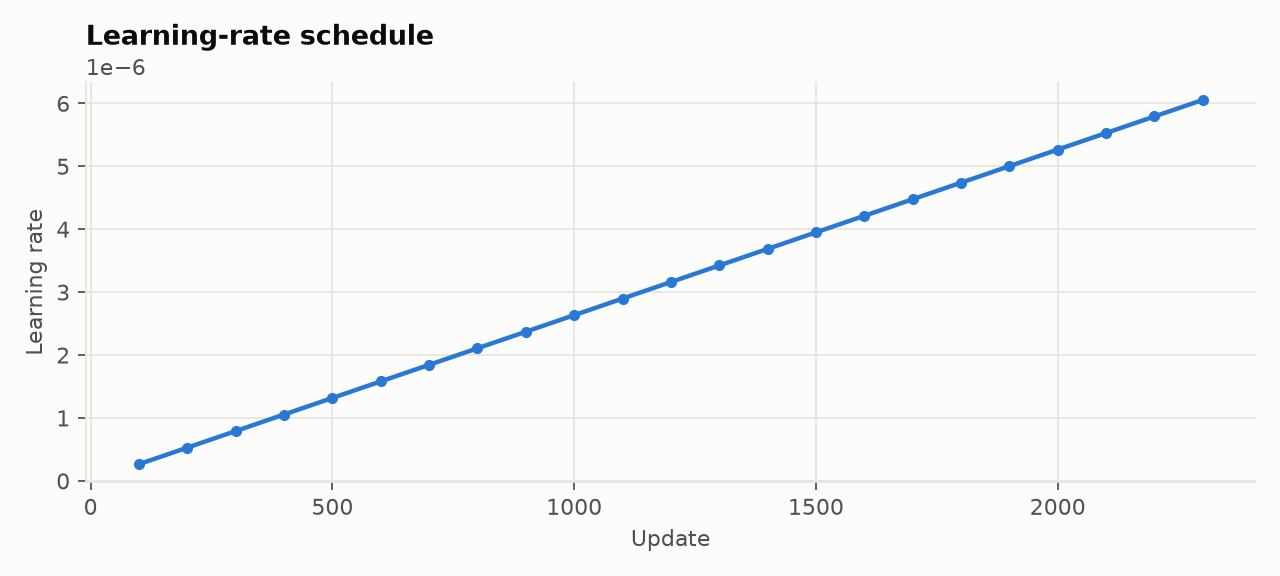
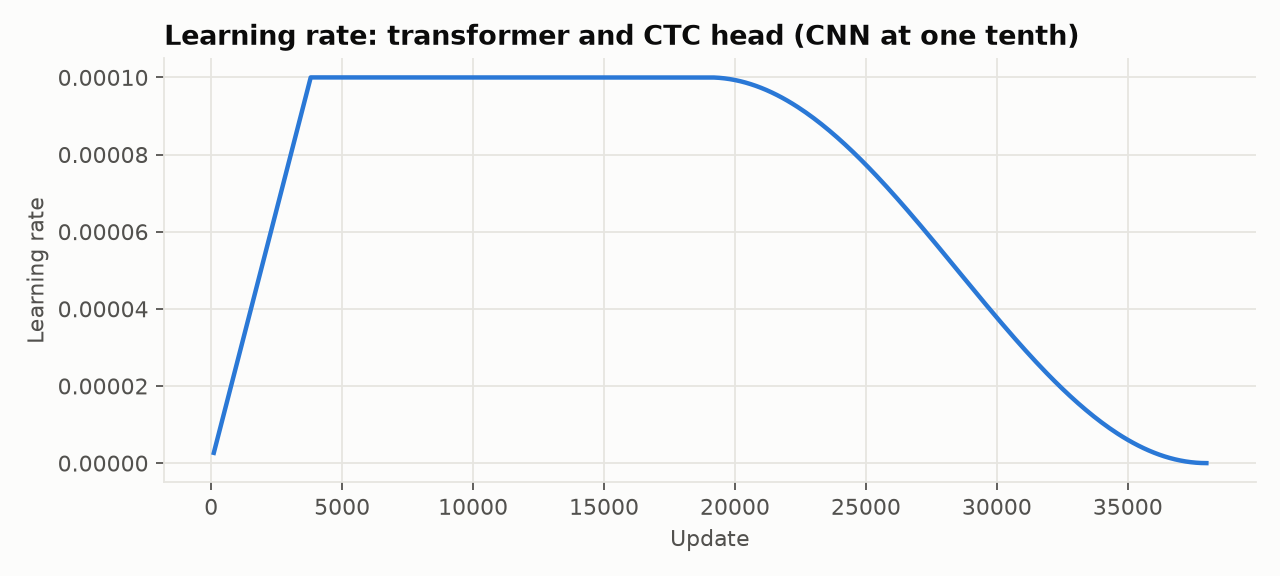
Show validation in the result charts and keep legends clear of labels

diff --git a/src/analysis/plots.py b/src/analysis/plots.py
@@ -25,7 +25,7 @@ from src.utils.config import data_path
 GREEDY, KENLM = "#2a78d6", "#eb6834"
 SERIES = {"greedy": ("Greedy CTC", GREEDY), "beam": ("KenLM beam search", KENLM)}
 INK, MUTED, GRID, SURFACE = "#0b0b0b", "#52514e", "#e6e5e0", "#fcfcfb"
-SPLIT_NAMES = {"test": "Test", "blind": "Blind test"}
+SPLIT_NAMES = {"val": "Validation\n(tuning set)", "test": "Test", "blind": "Blind test"}
 
 plt.rcParams.update({
     "figure.facecolor": SURFACE, "axes.facecolor": SURFACE, "savefig.facecolor": SURFACE,
@@ -71,7 +71,8 @@ def plot_losses(rows: list[dict[str, str]], output: Path, epochs: list[dict[str,
                           xytext=(-3, -3), textcoords="offset points", rotation=90, va="top", ha="right",
                           color=MUTED, fontsize=8)
     axis.set(title="Training and validation CTC loss", xlabel="Update", ylabel="CTC loss (per character)")
-    axis.legend(loc="upper right")
+    # Below the axis, so it cannot cover the epoch labels along the top.
+    axis.legend(loc="upper center", bbox_to_anchor=(0.5, -0.14), ncol=2)
     save(figure, output, "loss_curves.png")
 
 
@@ -96,7 +97,8 @@ def load_metrics(results: Path) -> dict[tuple[str, str], dict]:
 
 
 def plot_metric(metrics: dict, output: Path, keys: tuple[str, ...], title: str, label: str, name: str) -> None:
-    splits = [s for s in SPLIT_NAMES if any((s, d) in metrics for d in SERIES)]
+    splits = [s for s in SPLIT_NAMES
+              if any(key in metrics.get((s, d), {}) for d in SERIES for key in keys)]
     if not splits:
         return
     figure, axis = plt.subplots(figsize=(6.4, 4))
@@ -114,7 +116,7 @@ def plot_metric(metrics: dict, output: Path, keys: tuple[str, ...], title: str, 
     axis.set(title=title, ylabel=label)
     axis.grid(axis="x", visible=False)
     axis.margins(y=0.16)
-    axis.legend(loc="upper center", bbox_to_anchor=(0.5, -0.09), ncol=2)
+    axis.legend(loc="upper center", bbox_to_anchor=(0.5, -0.17), ncol=2)
     save(figure, output, name)
 
 
@@ -176,7 +178,8 @@ def main() -> None:
         with (run / "epoch_log.csv").open(encoding="utf-8") as handle:
             epochs = list(csv.DictReader(handle))
     plot_losses(rows, output, epochs)
-    plot_single(rows, output, "lr", "Learning-rate schedule", "Learning rate", "learning_rate.png")
+    plot_single(rows, output, "lr", "Learning rate: transformer and CTC head (CNN at one tenth)",
+                "Learning rate", "learning_rate.png")
     plot_single(rows, output, "val_wer", "Validation WER during training (greedy, cleaned text)",
                 "WER (%)", "val_wer.png")
 

diff --git a/results/figures/sample_predictions.md b/results/figures/sample_predictions.md
@@ -1,0 +1,75 @@
+# Sample predictions (blind test)
+
+Evenly spaced utterances, so this sample is not picked to flatter either decoder.
+
+## 1. 135893_9lNAZMRfDfuCN6XC_0000 (1.0 s)
+
+- **Reference:** par parsing
+- **Greedy CTC:** s
+- **KenLM beam:** *
+
+## 2. 172235_akeE0s3aKDyyCvEX_0069 (7.0 s)
+
+- **Reference:** और bio . blast . record module उपयोग कर के blast output को parse करना
+- **Greedy CTC:** और बाyo oblast record module उपयोग करके blast आuटput को parts करना
+- **KenLM beam:** और बाyooblast record module उपयोग करके blast output को parts करना
+
+## 3. 310356_u0sz1lTfmeW7wW5o_0045 (7.0 s)
+
+- **Reference:** यह sequence की शुरुआत से छठे base तक एक fragment extract करेगा
+- **Greedy CTC:** यह sequence की शुरुआत से छोठे base the एक fragment एक्सटraकट करेगा
+- **KenLM beam:** यह sequence की शुरूआत से छोटे base the एक fragment एक्सट्रैक्ट करेगा
+
+## 4. 334157_201xLiqOYAgU2d7a_0017 (4.0 s)
+
+- **Reference:** box खुलता है उसमें ok पर click करें
+- **Greedy CTC:** a box खुलता है उसमें ok पर click करें
+- **KenLM beam:** अब box खुलता है उसमें ok पर click करें
+
+## 5. 361930_TKM4DsRGN2zuNS6M_0064 (4.0 s)
+
+- **Reference:** आप अब इन fields में proxy settings enter कर सकते हैं
+- **Greedy CTC:** आप अब इन fields में proxy settings enter कर सकते हैं
+- **KenLM beam:** आप अब इन fields में proxy settings enter कर सकते हैं
+
+## 6. 443970_woduWyYl1wumm9Pt_0073 (3.0 s)
+
+- **Reference:** मैं ide पर वापस आऊँगा
+- **Greedy CTC:** मैं ide पर वापस आऊंगा
+- **KenLM beam:** मैं ide पर वापस आऊँगा
+
+## 7. 543096_UwcQJEuG2r7AD8vq_0072 (4.0 s)
+
+- **Reference:** अक्सर विज्ञापन हमारे internet अनुभव के साथ हस्तक्षेप करते हैं
+- **Greedy CTC:** अक्सर विज्ञापन हमारे interneट अनुभव के साथ हस्तक्षेप करते हैं
+- **KenLM beam:** अक्सर विज्ञापन हमारे internet अनुभव के साथ हस्तक्षेप करते हैं
+
+## 8. 731203_IfrROqMp8euBDI18_0015 (5.0 s)
+
+- **Reference:** पिछले tutorial में हमने देखा कि admin section कैसे कार्य करता है
+- **Greedy CTC:** पिछले tutorial में हमने देखा कि admin section कैसे कार्य करता है
+- **KenLM beam:** पिछले tutorial में हमने देखा कि admin section कैसे कार्य करता है
+
+## 9. 785686_o9IGdBMefgqASRUb_0004 (2.0 s)
+
+- **Reference:** sharing विकल्प इस tuto
+- **Greedy CTC:** sharing विकल्प
+- **KenLM beam:** sharing विकल्प
+
+## 10. 846118_m7mB9BC8FPflJgLI_0034 (6.0 s)
+
+- **Reference:** end user license agreement dialog box पर accept and install पर click करें
+- **Greedy CTC:** end user license agrement dialog box पर axcept and install पर click करें
+- **KenLM beam:** end user license agreement dialog box पर accept and install पर click करें
+
+## 11. 910325_DPCsWwNZgf4mmvwU_0089 (7.0 s)
+
+- **Reference:** इन उदाहरणों को om edit के drag और drop कार्यक्षमता का उपयोग करके भी बनाया जा सकता है
+- **Greedy CTC:** इन उदाहरण को oamedid के dray को drap कार्यक्षमता का उपयोग करके भी बनाया जा सकता है
+- **KenLM beam:** इन उदाहरण को oamedid के draw को drop कार्यक्षमता का उपयोग करके भी बनाया जा सकता है
+
+## 12. 952555_b9A7hrD5hUYxzb1E_0031 (5.0 s)
+
+- **Reference:** आगे हमारे पास एक सरल login form है यह form
+- **Greedy CTC:** आगे हमारे पास एक सरल log in form है
+- **KenLM beam:** आगे हमारे पास एक सरल log in form है
